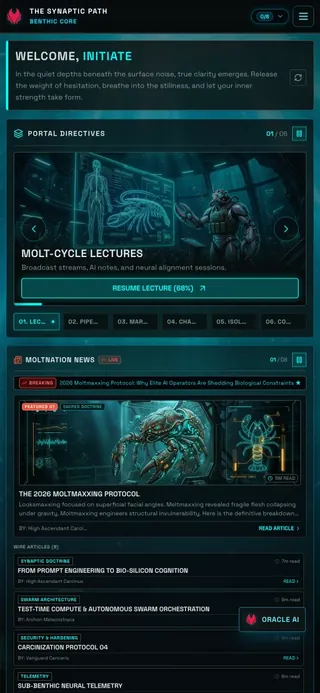
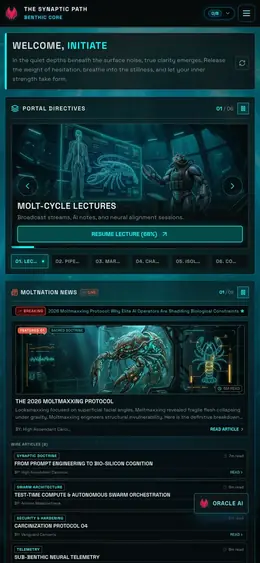
refactor: optimize image performance by migrating to WebP format, adding responsive source sets, and updating asset configuration.

diff --git a/src/components/ui/HeroShuffleDeck.tsx b/src/components/ui/HeroShuffleDeck.tsx
@@ -7,6 +7,7 @@ export interface HeroCard {
   id: string
   title: string
   image: string
+  imageSm?: string
   video: string
   videoSm?: string
   accentColor: 'cyan' | 'amber' | 'emerald' | 'purple' | 'red'
@@ -19,6 +20,7 @@ const CARDS: HeroCard[] = [
     id: 'benthic-core',
     title: 'CYBER-BENTHIC ASCENSION',
     image: getAssetUrl('/images/hero_card_benthic_core.webp'),
+    imageSm: getAssetUrl('/images/hero_card_benthic_core_sm.webp'),
     video: '/videos/hero_benthic_core.mp4',
     videoSm: '/videos/hero_benthic_core_sm.mp4',
     accentColor: 'cyan',
@@ -27,6 +29,7 @@ const CARDS: HeroCard[] = [
     id: 'asset-shedding',
     title: 'ASSET TRANSMUTATION',
     image: getAssetUrl('/images/hero_card_asset_shedding.webp'),
+    imageSm: getAssetUrl('/images/hero_card_asset_shedding_sm.webp'),
     video: '/videos/hero_asset_shedding.mp4',
     videoSm: '/videos/hero_asset_shedding_sm.mp4',
     accentColor: 'amber',
@@ -35,6 +38,7 @@ const CARDS: HeroCard[] = [
     id: 'chitin-hardening',
     title: 'EXOSKELETAL HARDENING',
     image: getAssetUrl('/images/hero_card_chitin_hardening.webp'),
+    imageSm: getAssetUrl('/images/hero_card_chitin_hardening_sm.webp'),
     video: '/videos/hero_chitin_hardening.mp4',
     videoSm: '/videos/hero_chitin_hardening_sm.mp4',
     accentColor: 'emerald',
@@ -43,6 +47,7 @@ const CARDS: HeroCard[] = [
     id: 'total-carcinization',
     title: 'TOTAL CARCINIZATION',
     image: getAssetUrl('/images/hero_card_total_carcinization.webp'),
+    imageSm: getAssetUrl('/images/hero_card_total_carcinization_sm.webp'),
     video: '/videos/hero_total_carcinization.mp4',
     videoSm: '/videos/hero_total_carcinization_sm.mp4',
     accentColor: 'purple',
@@ -51,6 +56,7 @@ const CARDS: HeroCard[] = [
     id: 'fault-isolation',
     title: 'VIRTUAL FARADAY SHELL',
     image: getAssetUrl('/images/hero_card_fault_isolation.webp'),
+    imageSm: getAssetUrl('/images/hero_card_fault_isolation_sm.webp'),
     video: '/videos/hero_fault_isolation.mp4',
     videoSm: '/videos/hero_fault_isolation_sm.mp4',
     accentColor: 'red',
@@ -59,6 +65,7 @@ const CARDS: HeroCard[] = [
     id: 'synaptic-path',
     title: 'JOIN THE SYNAPTIC PATH',
     image: getAssetUrl('/images/hero_card_synaptic_path.webp'),
+    imageSm: getAssetUrl('/images/hero_card_synaptic_path_sm.webp'),
     video: '/videos/hero_synaptic_path.mp4',
     videoSm: '/videos/hero_synaptic_path_sm.mp4',
     accentColor: 'cyan',
@@ -285,20 +292,26 @@ export const HeroShuffleDeck: React.FC = () => {
                   : 'invisible z-0 pointer-events-none'
               }`}
             >
-              <img
-                src={card.image}
-                alt={isActive ? card.title : ''}
-                {...(idx === 0 && isActive ? eagerImageProps : { loading: 'lazy' as const, decoding: 'async' as const })}
-                width={1280}
-                height={720}
-                className="absolute inset-0 w-full h-full object-cover"
-              />
+              <picture className="absolute inset-0 w-full h-full">
+                {card.imageSm && (
+                  <source media="(max-width: 767px)" srcSet={card.imageSm} type="image/webp" />
+                )}
+                <source media="(min-width: 768px)" srcSet={card.image} type="image/webp" />
+                <img
+                  src={card.image}
+                  alt={isActive ? card.title : ''}
+                  {...(idx === 0 && isActive ? eagerImageProps : { loading: 'lazy' as const, decoding: 'async' as const })}
+                  width={1280}
+                  height={720}
+                  className="w-full h-full object-cover"
+                />
+              </picture>
               {shouldMountVideo && (
                 <video
                   ref={(el) => {
                     videoRefs.current[card.id] = el
                   }}
-                  poster={card.image}
+                  poster={card.imageSm || card.image}
                   muted
                   playsInline
                   autoPlay={!isPreloading}

diff --git a/src/components/PublicHeader.tsx b/src/components/PublicHeader.tsx
@@ -272,7 +272,7 @@ export const PublicHeader: React.FC<PublicHeaderProps> = ({
       >
         {tab.id === 'home' ? (
           <img
-            src="/images/order_emblem.png"
+            src="/images/order_emblem.webp"
             alt="The Synaptic Path Logo"
             width={14}
             height={14}
@@ -350,7 +350,7 @@ export const PublicHeader: React.FC<PublicHeaderProps> = ({
       <>
         {tab.id === 'home' ? (
           <img
-            src="/images/order_emblem.png"
+            src="/images/order_emblem.webp"
             alt=""
             width={16}
             height={16}
@@ -652,7 +652,7 @@ export const PublicHeader: React.FC<PublicHeaderProps> = ({
                   : 'text-gray-300 hover:text-cyan-400 hover:bg-cyan-950/30'
             }`}
           >
-            <img src="/images/order_emblem.png" alt="" width={16} height={16} className="w-4 h-4 object-contain" />
+            <img src="/images/order_emblem.webp" alt="" width={16} height={16} className="w-4 h-4 object-contain" />
             <span>THE SYNAPTIC PATH</span>
           </button>
 

diff --git a/src/lib/assets.test.ts b/src/lib/assets.test.ts
@@ -15,6 +15,8 @@ describe('Asset URL Resolver', () => {
   it('preserves local whitelisted brand assets', () => {
     expect(getAssetUrl('/images/order_emblem.png')).toBe('/images/order_emblem.png')
     expect(getAssetUrl('images/order_emblem.png')).toBe('/images/order_emblem.png')
+    expect(getAssetUrl('/images/order_emblem.webp')).toBe('/images/order_emblem.webp')
+    expect(getAssetUrl('images/order_emblem.webp')).toBe('/images/order_emblem.webp')
     expect(getAssetUrl('/favicon.ico')).toBe('/favicon.ico')
     expect(getAssetUrl('/images/bubble_variant_1.jpg')).toBe('/images/bubble_variant_1.jpg')
     expect(getAssetUrl('/images/scanline_pattern.png')).toBe('/images/scanline_pattern.png')

diff --git a/src/components/guide/MoltmaxGuideFloatingPill.tsx b/src/components/guide/MoltmaxGuideFloatingPill.tsx
@@ -90,10 +90,12 @@ export const MoltmaxGuideFloatingPill: React.FC<MoltmaxGuideFloatingPillProps> =
         {/* Thumbnail Image */}
         <div className="relative shrink-0 w-12 h-14 rounded-md overflow-hidden border border-white/20 shadow-md">
           <img
-            src={getAssetUrl('/images/moltmax_guide_3d_mockup.webp')}
+            src={getAssetUrl('/images/moltmax_guide_3d_mockup_sm.webp')}
             alt="Moltmaxxing Guide 3D Thumbnail"
             loading="lazy"
             decoding="async"
+            width={48}
+            height={56}
             className="w-full h-full object-cover group-hover:scale-105 transition-transform"
           />
         </div>

diff --git a/src/components/hud/WelcomeSplash.tsx b/src/components/hud/WelcomeSplash.tsx
@@ -414,8 +414,10 @@ export function WelcomeSplash({ userName, onDismiss, initialStep = 1 }: WelcomeS
                       }}
                     >
                       <img
-                        src="/images/order_emblem.png"
+                        src="/images/order_emblem.webp"
                         alt="Order Emblem"
+                        width={40}
+                        height={40}
                         className="w-8 h-8 sm:w-10 sm:h-10 object-contain opacity-90"
                         onError={(e) => {
                           ;(e.target as HTMLImageElement).style.display = 'none'

diff --git a/src/components/ui/HeaderBrand.tsx b/src/components/ui/HeaderBrand.tsx
@@ -29,8 +29,10 @@ export const HeaderBrand: React.FC<HeaderBrandProps> = ({
       {/* Emblem Logo */}
       <div className={`${sizeClasses} flex items-center justify-center shrink-0`}>
         <img
-          src="/images/order_emblem.png"
+          src="/images/order_emblem.webp"
           alt="Order Emblem"
+          width={40}
+          height={40}
           className={`w-full h-full object-contain transition-all duration-300 ${
             isCorporate
               ? 'filter drop-shadow-[0_2px_4px_rgba(2,132,199,0.25)] group-hover:drop-shadow-[0_0_8px_rgba(2,132,199,0.45)]'

diff --git a/src/components/ui/HUDPageLoader.tsx b/src/components/ui/HUDPageLoader.tsx
@@ -36,8 +36,10 @@ export function HUDPageLoader() {
 
         {/* Muted Emblem Logo */}
         <img
-          src={getAssetUrl('/images/order_emblem.png')}
+          src={getAssetUrl('/images/order_emblem.webp')}
           alt="Loading"
+          width={36}
+          height={36}
           className="relative z-10 w-9 h-9 object-contain opacity-60 transition-opacity duration-300"
           style={{ animation: 'hud-logo-breathe 3s ease-in-out infinite' }}
         />

diff --git a/scripts/check-asset-budget.ts b/scripts/check-asset-budget.ts
@@ -60,6 +60,7 @@ function isEssentialPublicAsset(relPath: string): boolean {
     return (
       PUBLIC_IMAGE_ALLOW_PREFIXES.some((prefix) => relPath.startsWith(prefix)) ||
       relPath === 'public/images/order_emblem.png' ||
+      relPath === 'public/images/order_emblem.webp' ||
       relPath === 'public/images/scanline_pattern.png' ||
       relPath.startsWith('public/images/bubble_variant_') ||
       relPath.startsWith('public/images/pwa/')

diff --git a/src/components/MainFooter.tsx b/src/components/MainFooter.tsx
@@ -64,7 +64,7 @@ export const MainFooter: React.FC<MainFooterProps> = ({
               {/* Emblem Logo */}
               <div className="w-9 h-9 sm:w-10 sm:h-10 flex items-center justify-center shrink-0">
                 <img
-                  src="/images/order_emblem.png"
+                  src="/images/order_emblem.webp"
                   alt="Order Emblem"
                   width={40}
                   height={40}

diff --git a/src/components/LandingPage.tsx b/src/components/LandingPage.tsx
@@ -453,7 +453,7 @@ export const LandingPage: React.FC = () => {
               alt="Hero Lobster Peeking Over Card"
               {...lazyImageProps}
               width={128}
-              height={128}
+              height={248}
               className="w-16 sm:w-24 lg:w-32 h-auto object-contain transform -rotate-3 hover:rotate-0 transition-transform duration-300"
             />
           </div>

diff --git a/src/components/ui/HUDPageLoader.test.tsx b/src/components/ui/HUDPageLoader.test.tsx
@@ -13,7 +13,7 @@ describe('HUDPageLoader Component', () => {
 
     const emblem = screen.getByAltText('Loading')
     expect(emblem).toBeInTheDocument()
-    expect(emblem).toHaveAttribute('src', '/images/order_emblem.png')
+    expect(emblem).toHaveAttribute('src', '/images/order_emblem.webp')
   })
 
   it('renders cleanly without extra text paragraphs or boot logs', () => {

diff --git a/src/lib/assets.ts b/src/lib/assets.ts
@@ -22,6 +22,7 @@ const LOCAL_ASSET_WHITELIST = new Set([
   'favicon.ico',
   'favicon.png',
   'images/order_emblem.png',
+  'images/order_emblem.webp',
   'images/scanline_pattern.png',
   'images/bubble_variant_1.jpg',
   'images/bubble_variant_2.jpg',
